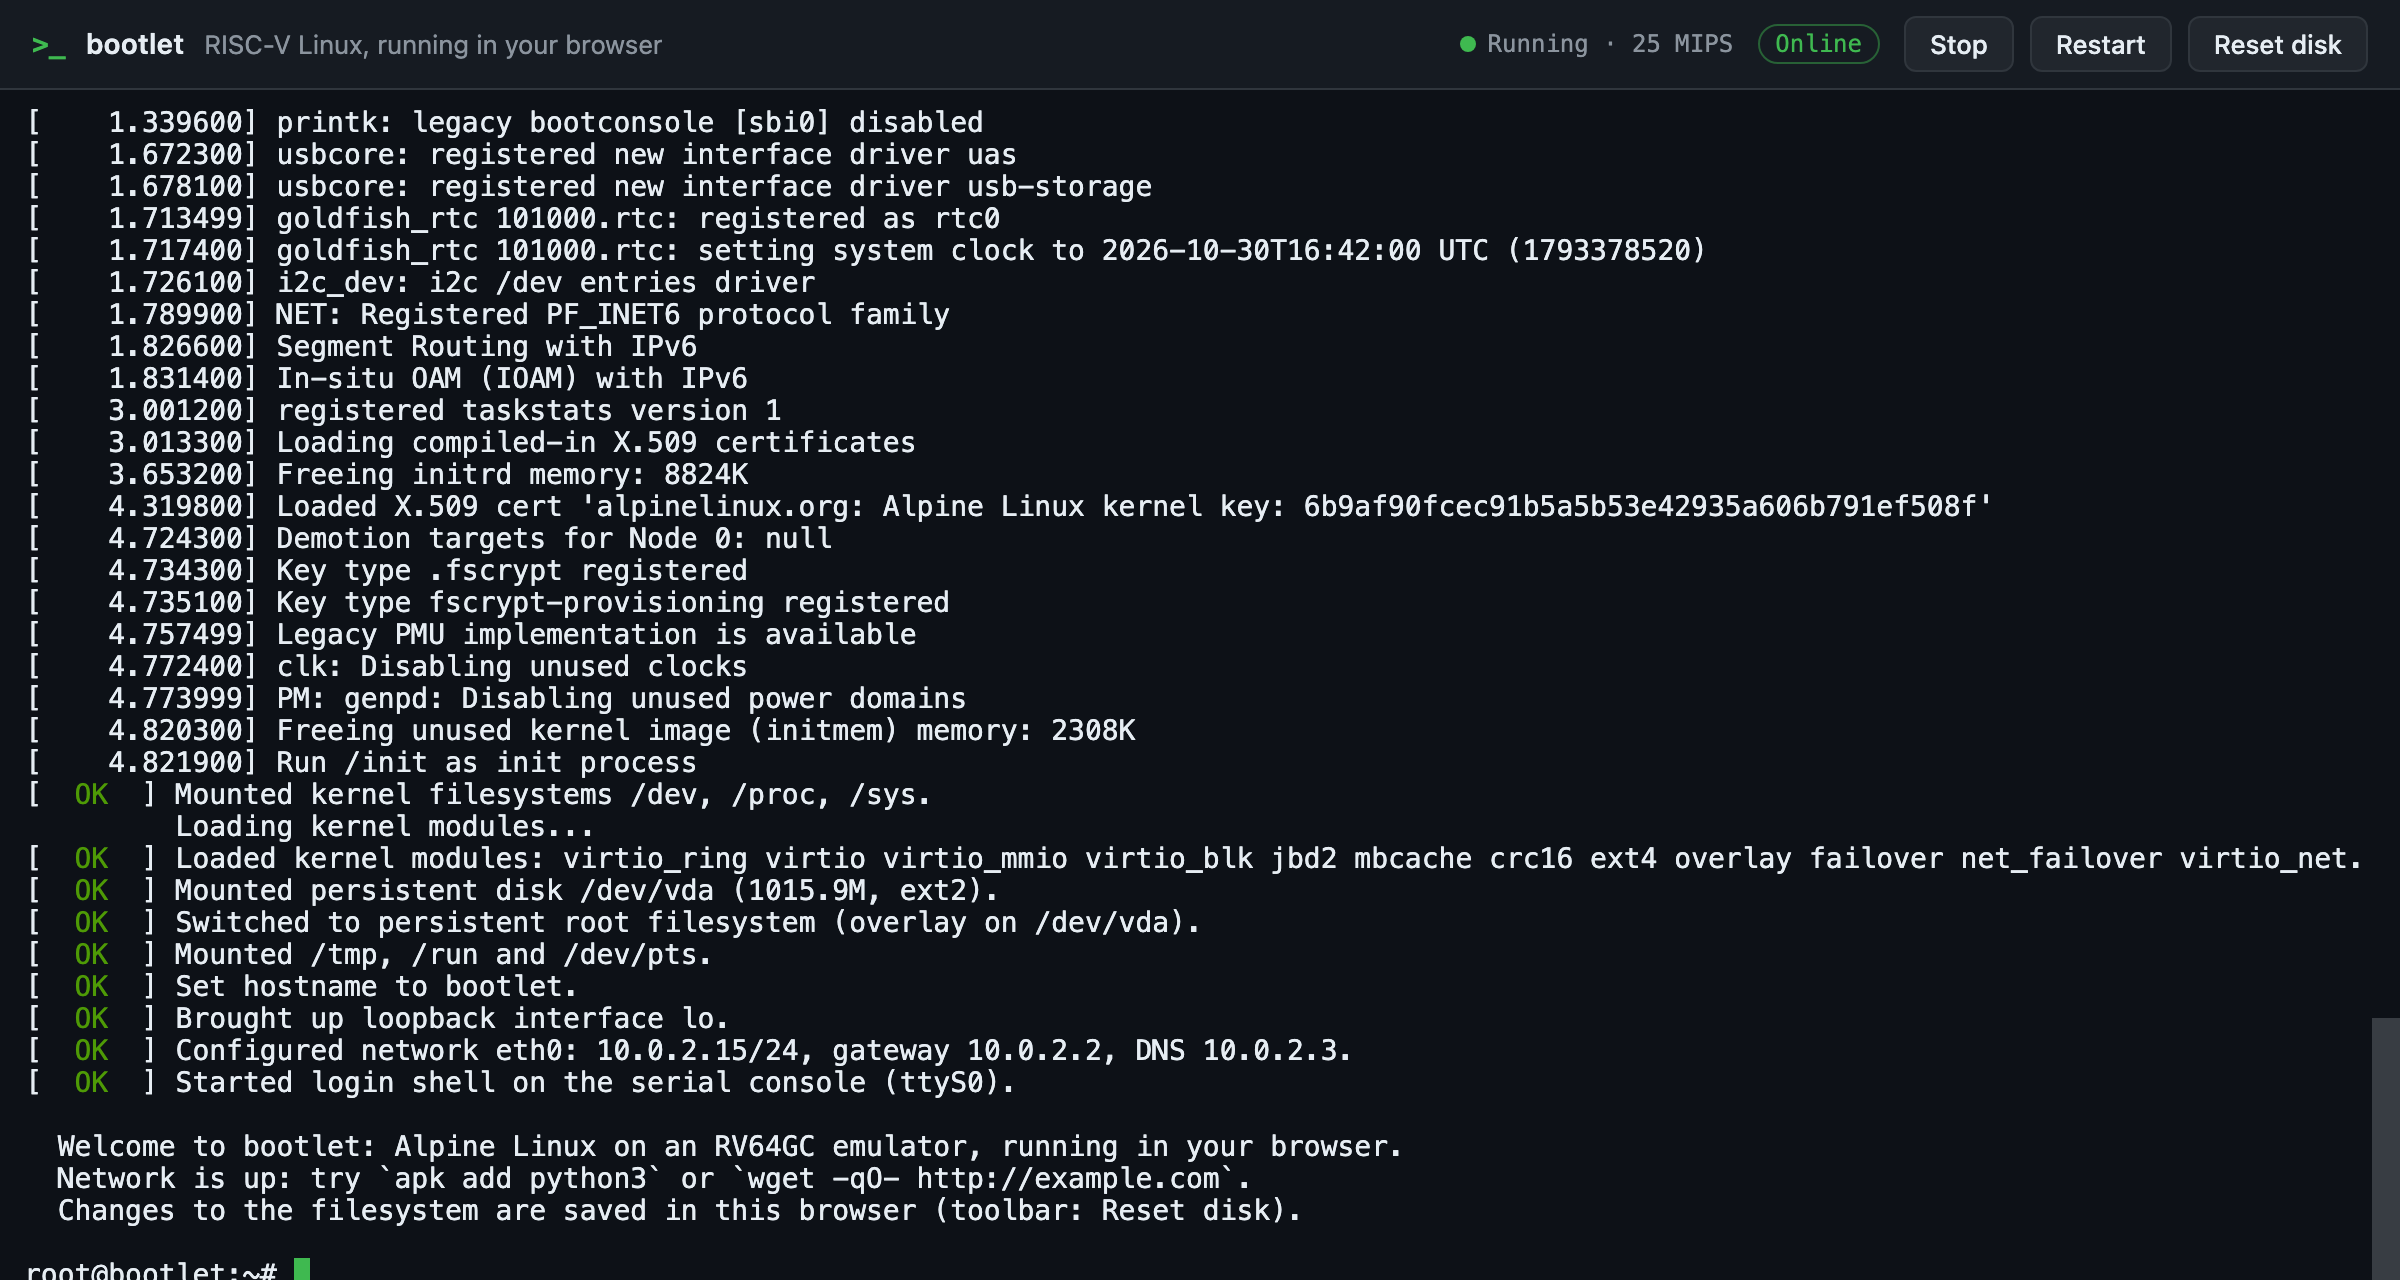
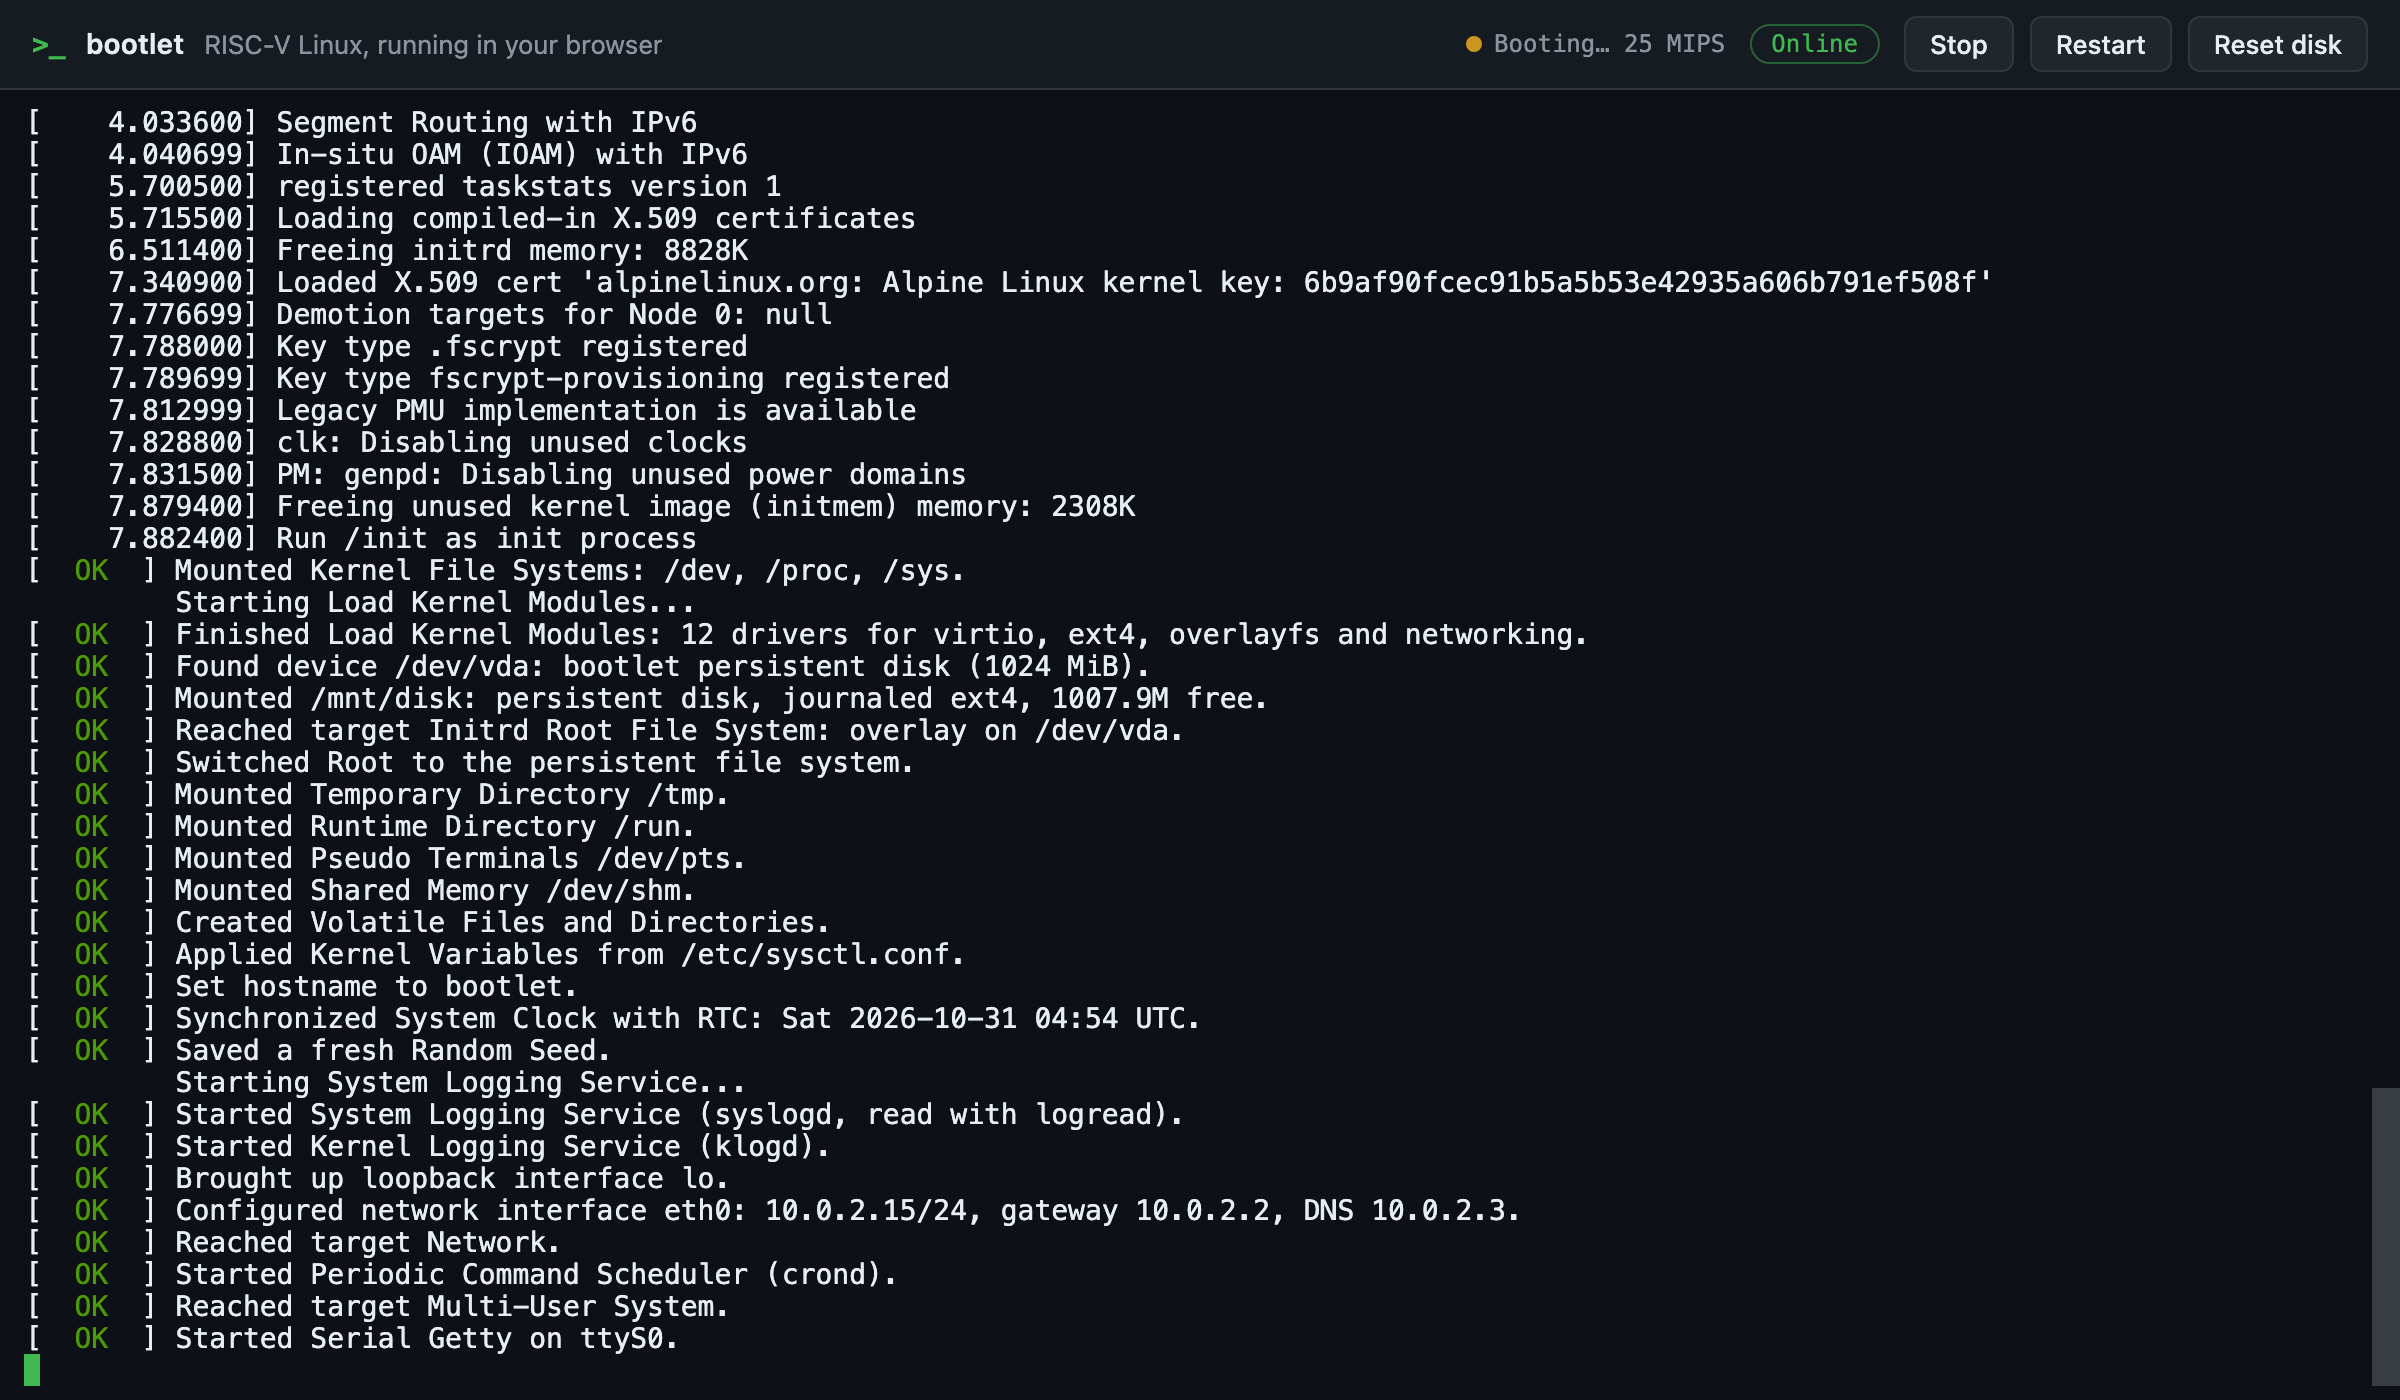
Systemd-style boot with real services, cleared before the prompt
- /init and rcS report every real step as [  OK  ] / [FAILED]: kernel
  filesystems, drivers, the persistent disk (and a journal recovery after
  an unclean shutdown, detected via a clean-shutdown marker), the overlay
  root, /tmp, /run, /dev/pts, /dev/shm, sysctl.conf, hostname, RTC clock,
  random seed, eth0.
- New services: syslogd (logread), klogd and crond.
- New rcK runs at poweroff/reboot: stops the services, saves the random
  seed, syncs, with matching status lines; unmounting is quiet.
- After boot the screen and scrollback are cleared, like getty, before
  the welcome message; the status lines stay in /var/log/boot.log.
- e2e tests use their own relay port (18089) so a relay the developer
  runs on 8089 can't interfere.

diff --git a/apps/frontend/playwright.config.ts b/apps/frontend/playwright.config.ts
@@ -17,8 +17,8 @@ export default defineConfig({
     {
       // -allow-private and -ports all let the guest reach the preview server
       // through the gateway address; never run a public relay like this.
-      command: "go run ../relay -addr 127.0.0.1:8089 -allow-private -ports all",
-      url: "http://127.0.0.1:8089/healthz",
+      command: "go run ../relay -addr 127.0.0.1:18089 -allow-private -ports all",
+      url: "http://127.0.0.1:18089/healthz",
       reuseExistingServer: !process.env.CI,
     },
   ],

diff --git a/apps/frontend/e2e/boot.spec.ts b/apps/frontend/e2e/boot.spec.ts
@@ -1,6 +1,6 @@
 import { expect, test, type Page } from "@playwright/test";
 
-const RELAY = "ws://127.0.0.1:8089/";
+const RELAY = "ws://127.0.0.1:18089/"; // not 8089, so a relay you are running doesn't interfere
 
 async function bootToPrompt(page: Page) {
   const screen = page.locator(".xterm-rows");

diff --git a/README.md b/README.md
@@ -142,7 +142,7 @@ flowchart LR
 
 <div align="center">
 <img src="docs/assets/boot.png" alt="The boot log in the browser: Linux kernel messages with timestamps, followed by systemd-style [ OK ] lines for loading modules, mounting the persistent disk, switching to the overlay root, configuring the network, and starting the shell" width="100%">
-<br><sub>The whole boot is visible: the kernel's log from its first instruction, then the guest's <code>[ OK ]</code> steps.</sub>
+<br><sub>The whole boot is visible: the kernel's log from its first instruction, then the guest's <code>[ OK ]</code> steps. The screen is cleared before the prompt; <code>/var/log/boot.log</code> keeps the steps.</sub>
 </div>
 
 Opening the page goes through these steps:
@@ -157,10 +157,16 @@ Opening the page goes through these steps:
 3. The kernel's `ecall`s (timer, IPI, remote fence, HSM, reset, debug console) are
    handled in Go, not by M-mode firmware.
 4. The guest's `/init` loads the virtio drivers, mounts the disk, and makes it the upper
-   layer of an overlay whose lower layer is the initramfs. It then hands over to BusyBox
-   `init`, which configures `eth0` and starts a shell. Each step prints a systemd-style
-   `[  OK  ]` line. From `/init` on, the console only shows kernel errors, so kernel
-   messages don't tear the status lines; `dmesg` has everything.
+   layer of an overlay whose lower layer is the initramfs. BusyBox `init` then runs
+   `/etc/init.d/rcS`. It mounts `/tmp`, `/run`, `/dev/pts` and `/dev/shm`, applies
+   `sysctl.conf`, sets the clock from the RTC, restores the random seed, starts `syslogd`,
+   `klogd` and `crond`, and configures `eth0`. Every step prints a systemd-style
+   `[  OK  ]` or `[FAILED]` line. Then the screen is cleared, as `getty` would do, before
+   the welcome message and the shell. The status lines stay in `/var/log/boot.log`, the
+   kernel log in `dmesg`, and service logs in `logread`. `poweroff` and `reboot` run
+   `/etc/init.d/rcK`, which stops the services, saves the random seed, and syncs the disk.
+   From `/init` on, the console only shows kernel errors, so kernel messages don't tear
+   the status lines.
 5. The worker calls `run(12ms)` in a loop. Between slices it posts console output, feeds
    keystrokes to the UART, and moves Wisp packets between the emulator and the WebSocket.
    When the guest idles, `run` returns how long until the next timer interrupt, and the
